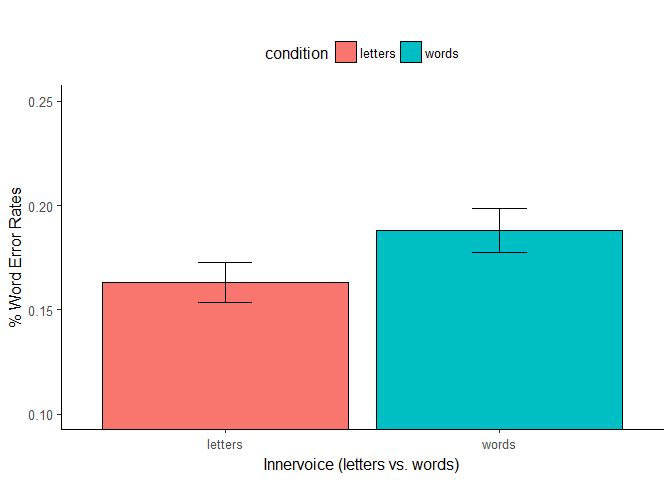
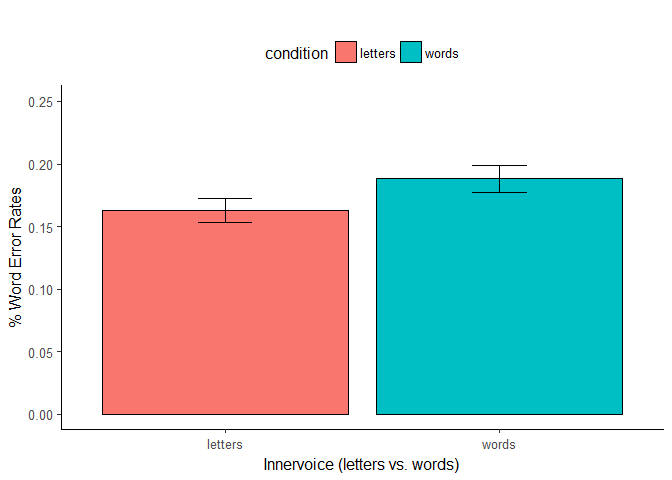
fix E1A letter error analysis

diff --git a/2018-nick-reanalysis/data-analysis.md b/2018-nick-reanalysis/data-analysis.md
@@ -67,7 +67,7 @@ limits <- aes(ymax = error + se, ymin = error - se)
 ggplot(error.summary,aes(x=condition, y=error,fill=condition))+
   geom_bar(stat="identity", position=position_dodge(width=0.9),color="black") + 
   geom_errorbar(limits, width = .2, position=position_dodge(width=0.9))+
-  coord_cartesian(ylim = c(0.1, .25))+
+  coord_cartesian(ylim = c(0, .25))+
   theme_classic(base_size=12)+
   labs(title="")+
   ylab("% Word Error Rates")+
@@ -80,9 +80,7 @@ ggplot(error.summary,aes(x=condition, y=error,fill=condition))+
 ``` r
 data$ACC<-as.numeric(as.character(data$ACC))
 
-error.data<-data%>%
-  filter(word_letterPos == 1,
-         word_length != 0) %>%
+error.data<-data %>%
   group_by(subject, condition) %>%
   summarize(
     N = n(),
@@ -102,9 +100,9 @@ kable(nice(aov.out, es = "pes", observed = NULL,
 
     ## Warning: 'sig.symbols' is deprecated; use 'sig_symbols' instead
 
-| Effect    | df    | MSE  | F    | pes  | p.value |
-|:----------|:------|:-----|:-----|:-----|:--------|
-| condition | 1, 43 | 0.00 | 0.16 | .004 | .69     |
+| Effect    | df    | MSE  | F    | pes | p.value |
+|:----------|:------|:-----|:-----|:----|:--------|
+| condition | 1, 43 | 0.00 | 0.87 | .02 | .36     |
 
 ``` r
 error.summary <- error.data %>%
@@ -121,7 +119,7 @@ limits <- aes(ymax = error + se, ymin = error - se)
 ggplot(error.summary,aes(x=condition, y=error,fill=condition))+
   geom_bar(stat="identity", position=position_dodge(width=0.9),color="black") + 
   geom_errorbar(limits, width = .2, position=position_dodge(width=0.9))+
-  #coord_cartesian(ylim = c(0.1, .25))+
+  coord_cartesian(ylim = c(0, .25))+
   theme_classic(base_size=12)+
   labs(title="")+
   ylab("% Letter Error Rates")+
